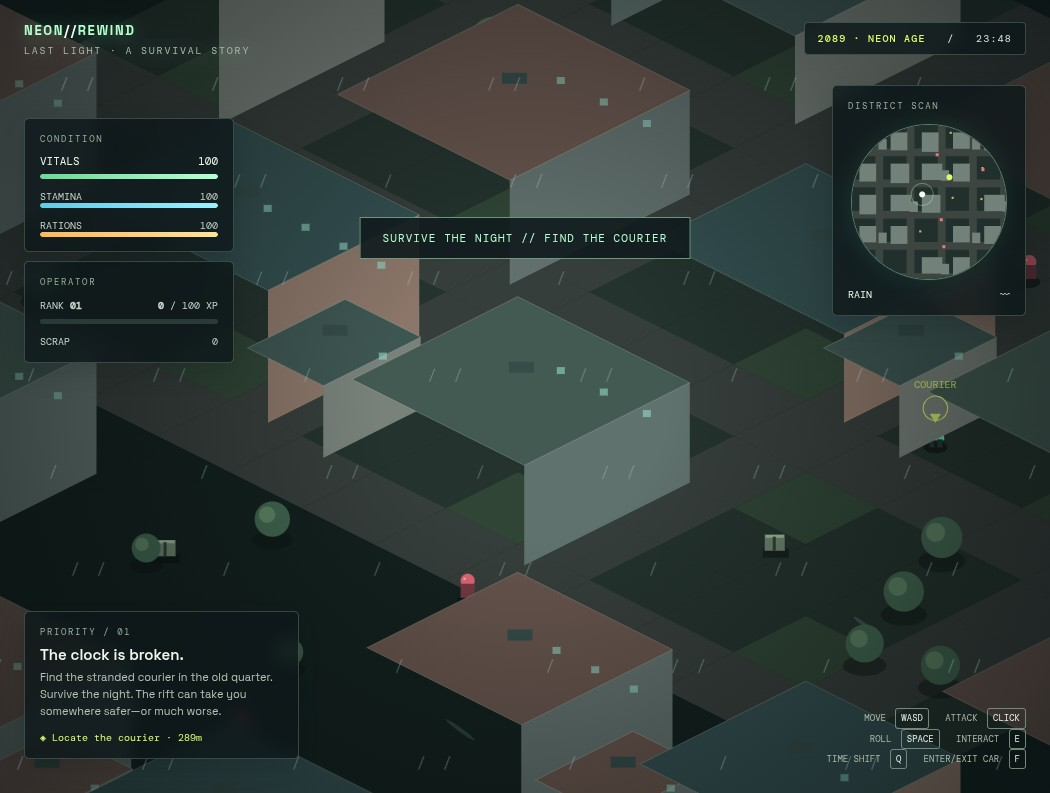
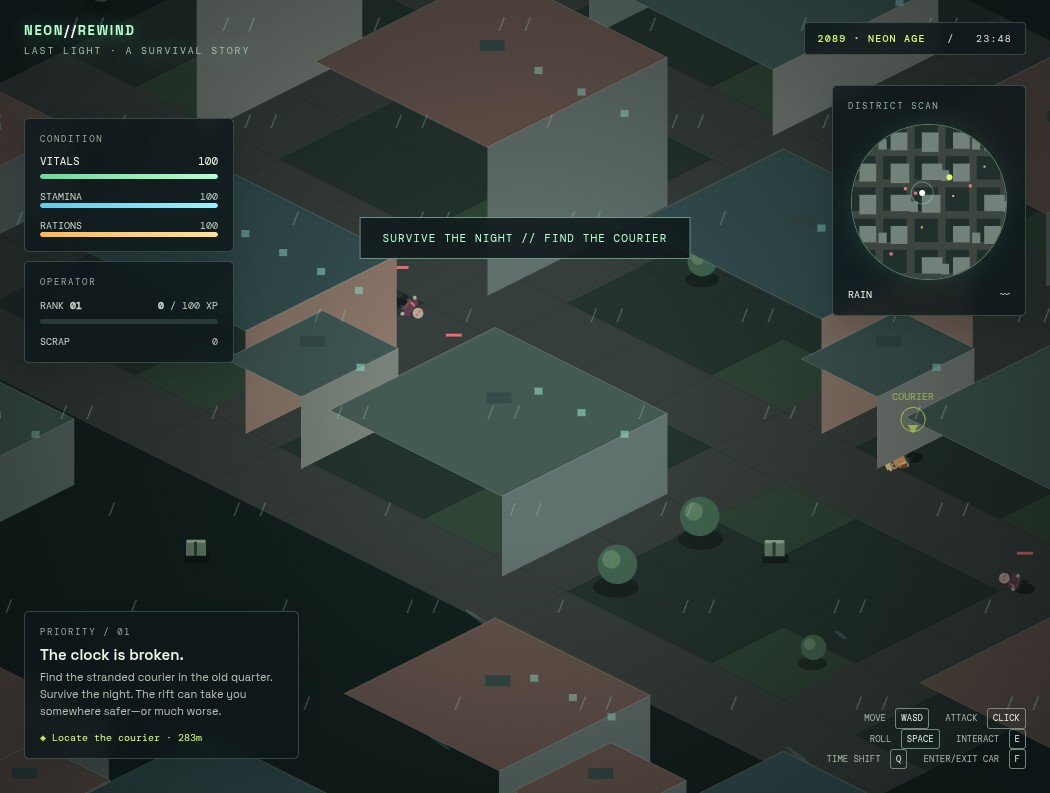
Publish static build for issue #1
Run: 42543033693
Attempt: 1
Generation: 4
Source: 5e916bc40358fbb514dd54911f9761dd8ad5379b

diff --git a/index.html b/index.html
@@ -70,14 +70,25 @@ function drawBuilding(b){const p=palettes[era],c=[scr(b.x,b.y),scr(b.x+b.w,b.y),
  let cx=b.x+b.w*.48,cy=b.y+b.h*.48,q=scr(cx,cy,b.z+9);ctx.fillStyle=era?'#695844':'#354c48';ctx.fillRect(q.x-12,q.y-7,25,11);
  for(let i=0;i<Math.floor(b.w/65);i++){let t=(i+1)/(Math.floor(b.w/65)+1),a={x:c[0].x+(c[1].x-c[0].x)*t,y:c[0].y+(c[1].y-c[0].y)*t-b.z*.48};ctx.fillStyle=era?'#f7d27b':'#95ddca';ctx.globalAlpha=.58;ctx.fillRect(a.x-4,a.y-3,8,7);ctx.globalAlpha=1}
 }
-function drawTree(t){let p=scr(t.x,t.y),r=t.r;ctx.fillStyle='#0c161380';ctx.beginPath();ctx.ellipse(p.x,p.y+4,r*1.15,r*.55,0,0,7);ctx.fill();ctx.fillStyle=era?'#645c38':'#4b644c';ctx.fillRect(p.x-3,p.y-r*1.5,6,r*1.5);ctx.fillStyle=era?['#a79a57','#827945','#b3a464'][t.tone]:'#426651';ctx.beginPath();ctx.arc(p.x,p.y-r*.95,r,0,7);ctx.fill();ctx.fillStyle='#9ac08a55';ctx.beginPath();ctx.arc(p.x-r*.3,p.y-r*1.2,r*.46,0,7);ctx.fill()}
+function drawTree(t){let p=scr(t.x,t.y),r=t.r,sway=Math.sin(elapsed*1.7+t.x*.03+t.y*.02)*1.8;ctx.fillStyle='#0c161380';ctx.beginPath();ctx.ellipse(p.x,p.y+4,r*1.15,r*.55,0,0,7);ctx.fill();ctx.fillStyle=era?'#645c38':'#4b644c';ctx.fillRect(p.x-3,p.y-r*1.5,6,r*1.5);ctx.save();ctx.translate(sway,0);ctx.fillStyle=era?['#a79a57','#827945','#b3a464'][t.tone]:'#426651';ctx.beginPath();ctx.arc(p.x,p.y-r*.95,r,0,7);ctx.fill();ctx.fillStyle='#9ac08a55';ctx.beginPath();ctx.arc(p.x-r*.3,p.y-r*1.2,r*.46,0,7);ctx.fill();ctx.restore()}
 function drawCrate(c){let p=scr(c.x,c.y);ctx.fillStyle='#07100d80';ctx.fillRect(p.x-12,p.y-4,26,9);ctx.fillStyle=era?'#8f7747':'#6b826b';ctx.fillRect(p.x-10,p.y-18,20,16);ctx.fillStyle=era?'#c3a365':'#a0b79b';ctx.fillRect(p.x-9,p.y-18,18,3);ctx.fillStyle='#2e4038';ctx.fillRect(p.x-2,p.y-16,3,14);if(!c.used&&dist(player,c)<100){ctx.strokeStyle='#d8ff6b66';ctx.strokeRect(p.x-13,p.y-21,26,23)}}
-function drawCar(c){let p=scr(c.x,c.y),s=player.car===c?1:1,ang=c.a;ctx.save();ctx.translate(p.x,p.y);ctx.rotate(ang);ctx.fillStyle='#07100daa';ctx.beginPath();ctx.ellipse(0,3,26,13,0,0,7);ctx.fill();ctx.fillStyle=c.color;ctx.beginPath();ctx.moveTo(-26,-9);ctx.lineTo(15,-12);ctx.lineTo(27,-5);ctx.lineTo(23,9);ctx.lineTo(-22,10);ctx.closePath();ctx.fill();ctx.fillStyle='#253a3b';ctx.beginPath();ctx.moveTo(-11,-9);ctx.lineTo(10,-10);ctx.lineTo(17,-4);ctx.lineTo(-13,-3);ctx.closePath();ctx.fill();ctx.fillStyle='#d7f0dc';ctx.fillRect(21,-5,3,4);ctx.restore()}
+function drawCar(c){let p=scr(c.x,c.y),ang=c.a,pulse=.65+.35*Math.sin(elapsed*8+c.x);ctx.save();ctx.translate(p.x,p.y);ctx.rotate(ang);ctx.fillStyle='#07100daa';ctx.beginPath();ctx.ellipse(0,3,27,14,0,0,7);ctx.fill();ctx.fillStyle='#111a1b';ctx.fillRect(-18,-12,8,4);ctx.fillRect(13,-12,8,4);ctx.fillRect(-18,9,8,4);ctx.fillRect(13,9,8,4);ctx.fillStyle=c.color;ctx.beginPath();ctx.moveTo(-26,-9);ctx.lineTo(15,-12);ctx.lineTo(27,-5);ctx.lineTo(23,9);ctx.lineTo(-22,10);ctx.closePath();ctx.fill();ctx.fillStyle='#253a3b';ctx.beginPath();ctx.moveTo(-11,-9);ctx.lineTo(10,-10);ctx.lineTo(17,-4);ctx.lineTo(-13,-3);ctx.closePath();ctx.fill();ctx.fillStyle='#d7f0dc';ctx.globalAlpha=pulse;ctx.fillRect(22,-5,4,4);ctx.fillRect(22,4,4,3);ctx.globalAlpha=.45;ctx.fillStyle='#ff566f';ctx.fillRect(-25,-5,3,3);ctx.fillRect(-25,4,3,3);ctx.restore()}
 function drawActor(x,y,kind,face=0,frame=0){let p=scr(x,y);ctx.fillStyle='#07100d99';ctx.beginPath();ctx.ellipse(p.x,p.y+4,kind==='player'?12:11,6,0,0,7);ctx.fill();if(kind==='enemy'){ctx.fillStyle='#df6576';ctx.beginPath();ctx.arc(p.x,p.y-16,7,0,7);ctx.fill();ctx.fillStyle='#733943';ctx.fillRect(p.x-7,p.y-13,14,14);ctx.fillStyle='#ffb3a8';ctx.fillRect(p.x-4,p.y-19,2,2)}else{ctx.fillStyle='#d1a878';ctx.beginPath();ctx.arc(p.x,p.y-19,6,0,7);ctx.fill();ctx.fillStyle='#65d8ae';ctx.beginPath();ctx.moveTo(p.x-8,p.y-15);ctx.lineTo(p.x+8,p.y-15);ctx.lineTo(p.x+9,p.y-3);ctx.lineTo(p.x-9,p.y-3);ctx.closePath();ctx.fill();ctx.fillStyle='#223638';ctx.fillRect(p.x-6,p.y-4,5,8);ctx.fillRect(p.x+2,p.y-4,5,8);if(player.swing>0){ctx.save();ctx.translate(p.x,p.y-12);ctx.rotate(face);ctx.strokeStyle='#d8ff6b';ctx.lineWidth=3;ctx.beginPath();ctx.arc(4,0,28,-.85,.85);ctx.stroke();ctx.restore()}}
 }
-function marker(pos,color,label,pulse=true){let p=scr(pos.x,pos.y);let k=pulse?1+Math.sin(elapsed*4)*.12:1;ctx.save();ctx.translate(p.x,p.y-35);ctx.scale(k,k);ctx.strokeStyle=color;ctx.fillStyle=color;ctx.globalAlpha=.85;ctx.beginPath();ctx.arc(0,0,11,0,7);ctx.stroke();ctx.beginPath();ctx.moveTo(0,13);ctx.lineTo(-5,5);ctx.lineTo(5,5);ctx.closePath();ctx.fill();ctx.font='9px DM Mono,monospace';ctx.textAlign='center';ctx.fillText(label,0,-18);ctx.restore()}
+function drawActor(x,y,kind,face=0,phase=0,moving=false,hit=0,hp=3){const p=scr(x,y),isEnemy=kind==='enemy',isCourier=kind==='courier',walk=moving?Math.sin(phase):0,bob=moving?Math.abs(Math.cos(phase))*.9:Math.sin(elapsed*2.5+phase)*.45,skin=isEnemy?'#aab5a0':isCourier?'#c9a477':'#d6a77c',coat=isEnemy?'#613d4a':isCourier?'#db995b':'#36a889',trim=isEnemy?'#e26e7d':isCourier?'#ffe09b':'#a9ffe0',ink='#19292a';
+  ctx.fillStyle='#07100d99';ctx.beginPath();ctx.ellipse(p.x,p.y+3,kind==='player'?12:10,5.5,0,0,7);ctx.fill();ctx.save();let projected=Math.atan2(Math.sin(face)*.36+Math.cos(face)*.36,Math.cos(face)*.72-Math.sin(face)*.72);ctx.translate(p.x,p.y-bob);ctx.rotate(projected+Math.PI/2);ctx.lineCap='round';ctx.lineJoin='round';
+  for(let side=-1;side<=1;side+=2){let stride=walk*side*3.1,legX=side*3.2;ctx.strokeStyle=isEnemy?'#394047':'#263a3a';ctx.lineWidth=4.2;ctx.beginPath();ctx.moveTo(legX,-10);ctx.lineTo(legX+stride,-4);ctx.stroke();ctx.strokeStyle='#172526';ctx.lineWidth=3.3;ctx.beginPath();ctx.moveTo(legX+stride,-4);ctx.lineTo(legX+stride+1,0);ctx.stroke()}
+  ctx.fillStyle=coat;ctx.beginPath();ctx.moveTo(-6,-18);ctx.quadraticCurveTo(0,-21,6,-18);ctx.lineTo(7,-9);ctx.quadraticCurveTo(0,-7,-7,-9);ctx.closePath();ctx.fill();ctx.fillStyle=trim;ctx.fillRect(-5,-17,2,7);ctx.fillStyle=isEnemy?'#7d4c55':'#304a47';ctx.fillRect(-6,-9,12,2);
+  let swing=kind==='player'&&player.swing>0?Math.sin((1-player.swing/.34)*Math.PI)*10:0;for(let side=-1;side<=1;side+=2){let armSwing=walk*side*3.3,armX=side*7+armSwing+(side===1?swing:0),armY=-10-(side===1?swing*.35:0);ctx.strokeStyle=coat;ctx.lineWidth=3.6;ctx.beginPath();ctx.moveTo(side*5,-17);ctx.lineTo(armX,armY);ctx.stroke();ctx.fillStyle=skin;ctx.beginPath();ctx.arc(armX,armY,1.8,0,7);ctx.fill()}
+  if(!isEnemy){ctx.fillStyle=isCourier?'#754d36':'#425349';ctx.fillRect(-8,-17,3,7)}else{ctx.fillStyle='#3b3038';ctx.beginPath();ctx.arc(0,-20,7.3,Math.PI,0);ctx.lineTo(6,-16);ctx.lineTo(-6,-16);ctx.closePath();ctx.fill()}
+  ctx.fillStyle=skin;ctx.beginPath();ctx.arc(0,-22,5.3,0,7);ctx.fill();ctx.fillStyle=isEnemy?'#df596c':ink;ctx.fillRect(-3,-23,2,1.5);ctx.fillRect(1,-23,2,1.5);if(!isEnemy){ctx.fillStyle=trim;ctx.fillRect(-5,-28,10,2);ctx.fillRect(-3,-30,6,2)}else{ctx.fillStyle='#ff5a6e';ctx.shadowColor='#ff4358';ctx.shadowBlur=5;ctx.fillRect(-3,-23,2,1.6);ctx.fillRect(1,-23,2,1.6);ctx.shadowBlur=0}ctx.restore();
+  if(hit>0){ctx.save();ctx.globalAlpha=Math.min(.65,hit*3);ctx.fillStyle='#fff4d8';ctx.beginPath();ctx.ellipse(p.x,p.y-13,10,14,0,0,7);ctx.fill();ctx.restore()}
+  if(kind==='player'&&player.swing>0){let progress=1-player.swing/.34;ctx.save();ctx.translate(p.x,p.y-13);ctx.rotate(projected+Math.PI/2);ctx.globalAlpha=Math.sin(progress*Math.PI)*.9;ctx.strokeStyle='#e7ff86';ctx.lineWidth=3;ctx.shadowColor='#d8ff6b';ctx.shadowBlur=12;ctx.beginPath();ctx.arc(0,-1,22,-2.35,-.3);ctx.stroke();ctx.restore()}
+  if(isEnemy){ctx.fillStyle='#13201dcc';ctx.fillRect(p.x-8,p.y-34,16,3);ctx.fillStyle='#ef6977';ctx.fillRect(p.x-8,p.y-34,16*clamp(hp/3,0,1),3)}
+ }
+ function marker(pos,color,label,pulse=true){let p=scr(pos.x,pos.y);let k=pulse?1+Math.sin(elapsed*4)*.12:1;ctx.save();ctx.translate(p.x,p.y-35);ctx.scale(k,k);ctx.strokeStyle=color;ctx.fillStyle=color;ctx.globalAlpha=.85;ctx.beginPath();ctx.arc(0,0,11,0,7);ctx.stroke();ctx.beginPath();ctx.moveTo(0,13);ctx.lineTo(-5,5);ctx.lineTo(5,5);ctx.closePath();ctx.fill();ctx.font='9px DM Mono,monospace';ctx.textAlign='center';ctx.fillText(label,0,-18);ctx.restore()}
 function drawWeather(dt){if(weather===2)return;let count=weather===0?110:74;ctx.save();ctx.globalAlpha=weather===0?.34:.68;for(let i=0;i<count;i++){let x=(i*173+elapsed*(weather===0?390:28))%(W+80)-40,y=(i*97+elapsed*(weather===0?650:52))%(H+80)-40;ctx.strokeStyle=weather===0?'#b7d9de':'#f1f5e8';ctx.lineWidth=weather===0?1:.9;ctx.beginPath();ctx.moveTo(x,y);ctx.lineTo(x+(weather===0?-5:2),y+(weather===0?13:7));ctx.stroke()}ctx.restore()}
-function drawWorld(){drawGround();let objects=[];for(const b of world.buildings)objects.push({d:b.x+b.y+b.w+b.h,fn:()=>drawBuilding(b)});for(const t of world.trees)objects.push({d:t.x+t.y,fn:()=>drawTree(t)});for(const c of world.crates)if(!c.used)objects.push({d:c.x+c.y,fn:()=>drawCrate(c)});for(const c of world.cars)objects.push({d:c.x+c.y,fn:()=>drawCar(c)});for(const e of world.enemies)if(e.alive)objects.push({d:e.x+e.y,fn:()=>drawActor(e.x,e.y,'enemy')});if(!courier.found)objects.push({d:courier.x+courier.y,fn:()=>drawActor(courier.x,courier.y,'player')});if(!player.car)objects.push({d:player.x+player.y,fn:()=>drawActor(player.x,player.y,'player',player.face)});objects.sort((a,b)=>a.d-b.d);for(const o of objects)o.fn();
+function drawWorld(){drawGround();let objects=[];for(const b of world.buildings)objects.push({d:b.x+b.y+b.w+b.h,fn:()=>drawBuilding(b)});for(const t of world.trees)objects.push({d:t.x+t.y,fn:()=>drawTree(t)});for(const c of world.crates)if(!c.used)objects.push({d:c.x+c.y,fn:()=>drawCrate(c)});for(const c of world.cars)objects.push({d:c.x+c.y,fn:()=>drawCar(c)});for(const e of world.enemies)if(e.alive)objects.push({d:e.x+e.y,fn:()=>drawActor(e.x,e.y,'enemy',e.face||0,e.phase,e.moving,e.hit,e.hp)});if(!courier.found)objects.push({d:courier.x+courier.y,fn:()=>drawActor(courier.x,courier.y,'courier',Math.PI/2,elapsed*2.5,false,0,3)});if(!player.car)objects.push({d:player.x+player.y,fn:()=>drawActor(player.x,player.y,'player',player.face,player.anim,player.moving,player.invul,3)});objects.sort((a,b)=>a.d-b.d);for(const o of objects)o.fn();
  if(!courier.found)marker(courier,'#d8ff6b','COURIER');if(quest===1)marker(rift,'#9b95ff','RIFT');
  // Context-sensitive interaction cue
  if(gameOn){let cue='';if(!courier.found&&dist(player,courier)<100)cue='[ E ]  RESCUE COURIER';else if(quest===1&&dist(player,rift)<105)cue='[ E ]  STABILIZE RIFT';else if(world.crates.some(c=>!c.used&&dist(player,c)<65))cue='[ E ]  SCAVENGE CACHE';else if(!player.car&&world.cars.some(c=>!c.occupied&&dist(player,c)<68))cue='[ F ]  HOTWIRE VEHICLE';if(cue){ctx.font='10px DM Mono,monospace';ctx.textAlign='center';ctx.fillStyle='#07100dcc';ctx.fillRect(W/2-102,H*.72-13,204,27);ctx.fillStyle='#d8ff6b';ctx.fillText(cue,W/2,H*.72+4)}}
@@ -88,9 +99,9 @@ function drawMap(){mctx.clearRect(0,0,156,156);mctx.fillStyle=era?'#5e533c':'#21
 let hudClock=0;function updateHUD(dt){hudClock-=dt;if(hudClock>0)return;hudClock=.1;document.querySelector('#healthNum').textContent=Math.ceil(player.hp);document.querySelector('#healthBar').style.width=player.hp+'%';document.querySelector('#staminaNum').textContent=Math.ceil(player.st);document.querySelector('#staminaBar').style.width=player.st+'%';document.querySelector('#foodNum').textContent=Math.ceil(player.food);document.querySelector('#foodBar').style.width=player.food+'%';document.querySelector('#level').textContent=String(player.level).padStart(2,'0');document.querySelector('#xp').textContent=player.xp;document.querySelector('#xpGoal').textContent=player.level*100;document.querySelector('#xpBar').style.width=(player.xp/(player.level*100)*100)+'%';document.querySelector('#scrap').textContent=player.scrap;document.querySelector('#eraLabel').textContent=era?'1989 · THE LONG THAW':'2089 · NEON AGE';let mins=(48+Math.floor(elapsed*.22))%60,hrs=(23+Math.floor((48+Math.floor(elapsed*.22))/60))%24;document.querySelector('#clock').textContent=String(hrs).padStart(2,'0')+':'+String(mins).padStart(2,'0');let wn=['RAIN','SNOW','CLEAR'];document.querySelector('#weatherName').textContent=wn[weather];document.querySelector('#weatherIcon').textContent=['〰','❄','✳'][weather];let objective=document.querySelector('#objective');if(quest===0)objective.textContent='◈ Locate the courier · '+Math.round(dist(player,courier)*.7)+'m';else if(quest===1)objective.textContent='◈ Reach the rift · '+Math.round(dist(player,rift)*.7)+'m';else objective.textContent='✓ Timeline stabilized · Survive';drawMap()}
 function update(dt){elapsed+=dt;if(!gameOn)return;player.swing=Math.max(0,player.swing-dt);player.roll=Math.max(0,player.roll-dt);player.invul=Math.max(0,player.invul-dt);if(toastTimer>0){toastTimer-=dt;if(toastTimer<=0)document.querySelector('#toast').classList.remove('show')}
  player.food=Math.max(0,player.food-dt*.055);if(player.food===0)player.hp-=dt*.65;if(weather===1)player.st=Math.max(0,player.st-dt*.8);if(player.st<=1&&weather===1)player.hp-=dt*.1;
- let dx=(keys.d||keys.arrowright?1:0)-(keys.a||keys.arrowleft?1:0)+joy.x,dy=(keys.s||keys.arrowdown?1:0)-(keys.w||keys.arrowup?1:0)+joy.y;
+ let dx=(keys.d||keys.arrowright?1:0)-(keys.a||keys.arrowleft?1:0)+joy.x,dy=(keys.s||keys.arrowdown?1:0)-(keys.w||keys.arrowup?1:0)+joy.y;player.moving=!!(dx||dy);player.anim=(player.anim||0)+dt*(player.moving?13:2.5);
  if(player.car){let c=player.car;let turn=(keys.d||keys.arrowright?1:0)-(keys.a||keys.arrowleft?1:0);c.a+=turn*dt*2.35;let drive=(keys.w||keys.arrowup?1:0)-(keys.s||keys.arrowdown?1:0)+Math.max(-1,Math.min(1,-joy.y));let sp=drive*250*dt;c.x=clamp(c.x+Math.cos(c.a)*sp,25,1975);c.y=clamp(c.y+Math.sin(c.a)*sp,25,1975);if(blocked(c.x,c.y,22)){c.x-=Math.cos(c.a)*sp;c.y-=Math.sin(c.a)*sp}player.x=c.x;player.y=c.y;player.face=c.a;if(Math.abs(sp)>0){for(const e of world.enemies)if(e.alive&&dist(player,e)<36){e.alive=false;gainXP(25);player.scrap+=2;toast('ROAD THREAT CLEARED +25 XP')}}}else if(dx||dy)movePlayer(dx,dy,dt);
- if(mouse.down&&player.swing<=0)attack();for(const e of world.enemies){if(!e.alive)continue;e.hit=Math.max(0,(e.hit||0)-dt);let d=dist(player,e);if(d<300&&!player.car){let a=Math.atan2(player.y-e.y,player.x-e.x);if(d>25){let nx=e.x+Math.cos(a)*e.spd*dt,ny=e.y+Math.sin(a)*e.spd*dt;if(!blocked(nx,ny,10))e.x=nx;if(!blocked(e.x,ny,10))e.y=ny}if(d<28&&player.invul<=0){player.hp-=9;player.invul=.8;toast('YOU ARE TAKING DAMAGE')}}else{e.phase+=dt;if(e.phase>9)e.phase=0}}
+ if(mouse.down&&player.swing<=0)attack();for(const e of world.enemies){if(!e.alive)continue;e.hit=Math.max(0,(e.hit||0)-dt);let d=dist(player,e),a=Math.atan2(player.y-e.y,player.x-e.x);e.face=a;e.moving=d<300&&!player.car&&d>25;e.phase+=dt*(e.moving?11:2.3);if(d<300&&!player.car){if(d>25){let nx=e.x+Math.cos(a)*e.spd*dt,ny=e.y+Math.sin(a)*e.spd*dt;if(!blocked(nx,ny,10))e.x=nx;if(!blocked(e.x,ny,10))e.y=ny}if(d<28&&player.invul<=0){player.hp-=9;player.invul=.8;toast('YOU ARE TAKING DAMAGE')}}}
  if(player.hp<=0){player.hp=65;player.food=Math.max(20,player.food);player.x=900;player.y=890;player.scrap=Math.max(0,player.scrap-8);player.invul=2;player.car=null;toast('PATCHED UP // LOST 8 SCRAP')}
  camera.x=clamp(player.x,350,1650);camera.y=clamp(player.y,350,1650);missionPulse+=dt;updateHUD(dt)}
 function frame(now){let dt=Math.min(.04,(now-last)/1000||.016);last=now;update(dt);if(!gameOn){camera.x=player.x;camera.y=player.y}drawWorld();requestAnimationFrame(frame)}requestAnimationFrame(frame);
